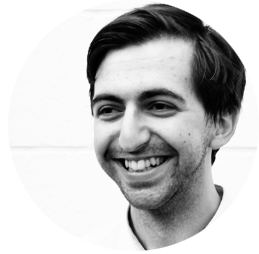
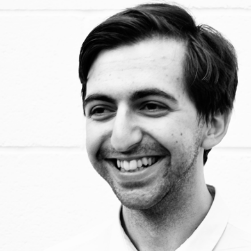
adding colours

diff --git a/css/site.css b/css/site.css
@@ -148,15 +148,47 @@ body {
   background: #f5f5f5;
 }
 .speaker {
-  background: white;
-  width: 20em;
+  margin: 100px;
+  background: #CF3904;
+  width: 18em;
   text-align: center;
+  -webkit-border-radius: 8px;
+  -moz-border-radius: 8px;
+  border-radius: 8px;
+  -moz-background-clip: padding;
+  -webkit-background-clip: padding-box;
+  background-clip: padding-box;
+}
+.speaker .head {
+  overflow: hidden;
+  -webkit-border-radius: 120px;
+  -moz-border-radius: 120px;
+  border-radius: 120px;
+  -moz-background-clip: padding;
+  -webkit-background-clip: padding-box;
+  background-clip: padding-box;
+  width: 150px;
+  height: 150px;
+  margin: 0 auto;
+  border: 10px solid white;
+}
+.speaker .head img {
+  display: block;
 }
 .speaker .card-top {
-  background: red;
+  color: white;
 }
 .speaker .card-bottom {
   background: white;
+}
+.speaker .card-btns {
+  background: white;
+  -webkit-border-radius: 0 0 8px 8px;
+  -moz-border-radius: 0 0 8px 8px;
+  border-radius: 0 0 8px 8px;
+  -moz-background-clip: padding;
+  -webkit-background-clip: padding-box;
+  background-clip: padding-box;
 }
 .logo {
   text-align: center;

diff --git a/_less/objects/_card.less b/_less/objects/_card.less
@@ -1,13 +1,38 @@
 .speaker {
-  background: white;
-  width: 20em;
+
+  margin: 100px;
+  background: #CF3904;
+  width: 18em;
   text-align: center;
+  .border-radius (@radius: 8px);
+
+  .head {
+    overflow: hidden;
+    .border-radius (@radius: 120px);
+    width: 150px;
+    height: 150px;
+    margin: 0 auto;
+    border: 10px solid white;
+    
+    img {
+      display: block;
+    }
+  }
 
   .card-top {
-    background: red;
+    color: white;
+
+    h1 {
+      
+    }
   }
 
   .card-bottom {
     background: white;
+  }
+
+  .card-btns {
+    background: white;
+    .border-radius (@radius: 0 0 8px 8px);
   }
 }

diff --git a/_includes/event.html b/_includes/event.html
@@ -17,6 +17,8 @@
             <section class='card-bottom'>
             <h2>Abstract</h2>
               <p class="abstract">I will be talking about building rapic prototypes with ember.js and bootstrap.</p>
+            </section>  
+            <section class='card-btns'>
               <a href="" class="cant-wait">Can't wait</a>
               <a href='' class='twitter-btn'>TwitIcon</a>
             </section>
